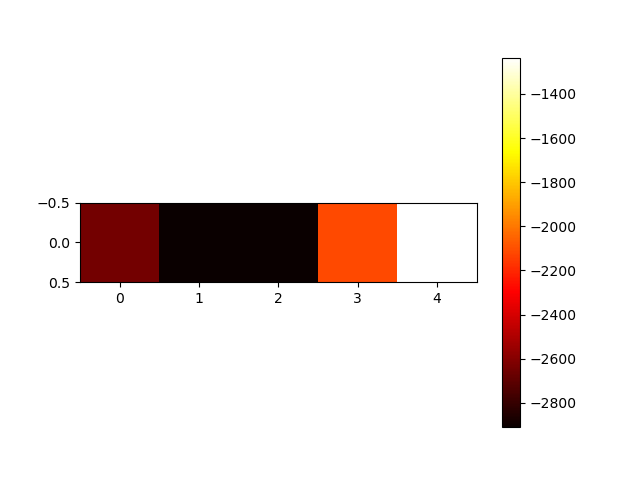
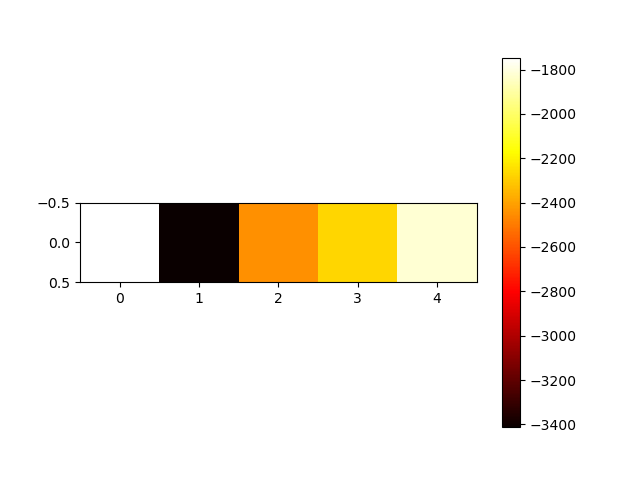
passato parametri a simulazione, non ancora utilizzati

diff --git a/map_elites.py b/map_elites.py
@@ -18,35 +18,32 @@ ALLOW_MUTATION = True
 ALLOW_CROSSOVER = True
 
 class MAP_Elites: 
-    def __init__(self):
+    def __init__(self, problem_parameters):
         # TODO: questi parametri vanno fatti meglio
         self.current_epoch = 0
         self.log_counter = 0
         self.num_dimensions = 1
-        self.num_cells = 5
+        self.cells_in_grid = problem_parameters.cells_in_grid
+        self.total_agents = problem_parameters.total_agents
         # range di valori per EnvironmentData,
         # dicono che non possiamo avere 51 melee se ci sono al max 
         # 50 unità totali per team
         # TODO: integrare questo nella classe EnvironmentData e non qui
-        self.dimension_range = (0, 10)
+        self.cell_dimension = self.total_agents // self.cells_in_grid
+        self.cell_boundaries = [i * self.cell_dimension for i in range(self.cells_in_grid)]
 
         # partiamo con una griglia semplice con una sola dimensione 
         # la griglia contiene coppie (EnvironmentData, fitness)
         # dove enviroment data è il "genotipo" (ex. 5 melee e 5 ranged)
         # TODO: da espandere a più dimensioni (credo almeno due)
-        self.solution_space_grid = np.empty(self.num_cells, dtype=object)
+        self.solution_space_grid = np.empty(self.cells_in_grid, dtype=object)
 
         print("--- Initializing grid...")
-        self.init_grid()
+        self.init_grid(problem_parameters)
 
-    def init_grid(self): 
-        for i in range(self.num_cells):
-            # Per ogni item nella griglia inizializzaimo una soluzjone random
-            low, high = self.dimension_range
-            solution = np.random.uniform(low=low, high=high, size=self.num_dimensions)
-
-            envdata = EnvironmentData(50)
-
+    def init_grid(self, problem_parameters): 
+        for i in range(self.cells_in_grid):
+            envdata = EnvironmentData(problem_parameters, i)
             # e passiamo questa soluzione nel giochino per vedere come performa, 
             # restituisce direttamente il total_reward, quello che dobbiamo massimizzare
             fitness = self.fitness_function(envdata)
@@ -74,10 +71,10 @@ class MAP_Elites:
             self.log("test", as_plot=True)
             self.current_epoch += 1
 
-    def fitness_function(self, solution):
+    def fitness_function(self, env_data):
         # execute environment with current ratio of melee and ranged units
         print("Evaluating enviroment...")
-        env = custom_combined_arms.env(render_mode='human')
+        env = custom_combined_arms.env(env_data=env_data, render_mode='human')
         fitness_score = random_demo(env, render=False, episodes=NUMBER_OF_EPISODES)
 
         return fitness_score

diff --git a/custom_combined_arms.py b/custom_combined_arms.py
@@ -26,6 +26,7 @@ def parallel_env(
     extra_features=False,
     render_mode=None,
     seed=None,
+    env_data=None,
     **reward_args
 ):
     env_reward_args = dict(**default_reward_args)
@@ -38,6 +39,7 @@ def parallel_env(
         extra_features,
         render_mode,
         seed,
+        env_data,
     )
 
 
@@ -45,6 +47,7 @@ def raw_env(
     map_size=default_map_size,
     max_cycles=max_cycles_default,
     minimap_mode=minimap_mode_default,
+    env_data=None,
     extra_features=False,
     render_mode=None,
     seed=None,
@@ -58,6 +61,7 @@ def raw_env(
             extra_features,
             render_mode=render_mode,
             seed=seed,
+            env_data=env_data,
             **reward_args
         )
     )
@@ -70,11 +74,13 @@ def get_config(
     map_size,
     minimap_mode,
     seed,
+    env_data,
     step_reward,
     dead_penalty,
     attack_penalty,
     attack_opponent_reward,
 ):
+    # TODO: usa env_data
     gw = magent2.gridworld
     cfg = gw.Config()
 
@@ -263,6 +269,7 @@ class _parallel_env(magent_parallel_env, EzPickle):
         extra_features,
         render_mode=None,
         seed=None,
+        env_data=None,
     ):
         EzPickle.__init__(
             self,
@@ -275,7 +282,7 @@ class _parallel_env(magent_parallel_env, EzPickle):
             seed,
         )
         assert map_size >= 16, "size of map must be at least 16"
-        env = magent2.GridWorld(get_config(map_size, minimap_mode, seed, **reward_args))
+        env = magent2.GridWorld(get_config(map_size, minimap_mode, seed, env_data, **reward_args))
         reward_vals = np.array([KILL_REWARD] + list(reward_args.values()))
         reward_range = [
             np.minimum(reward_vals, 0).sum(),

diff --git a/environment_data.py b/environment_data.py
@@ -1,8 +1,21 @@
 
+import random
+
 class EnvironmentData:
-    def __init__(self, total_units):
-        self.melee = total_units * 0.5
-        self.ranged = total_units - self.melee
+    def __init__(self, problem_parameters, cell_index):
+        self.cell_index = cell_index
+
+        self.num_dimensions = 1
+        self.cells_in_grid = problem_parameters.cells_in_grid
+        self.total_agents = problem_parameters.total_agents
+        
+        self.cell_dimension = self.total_agents // self.cells_in_grid
+        self.cell_boundary_low = self.cell_index * self.cell_dimension
+        self.cell_boundary_high = (self.cell_index+1) * self.cell_dimension - 1
+        self.current_value = random.randint(self.cell_boundary_low, self.cell_boundary_high)
+
+        self.number_of_melee = self.current_value
+        self.number_of_ranged = self.total_agents - self.current_value
 
     def mutate(self): 
         pass

diff --git a/main.py b/main.py
@@ -1,5 +1,6 @@
 
 from map_elites import MAP_Elites
+from problem_params import ProblemParameters
 import os
 
 NO_DISPLAY = True
@@ -8,7 +9,9 @@ def main():
     if NO_DISPLAY: 
         os.environ["SDL_VIDEODRIVER"] = "dummy"
 
-    algorithm = MAP_Elites()
+    params = ProblemParameters()
+
+    algorithm = MAP_Elites(params)
     algorithm.run()
 
     print("Best solution: ", algorithm.get_best_solutions())

diff --git a/problem_params.py b/problem_params.py
@@ -1,0 +1,7 @@
+
+
+class ProblemParameters: 
+    def __init__(self) -> None:
+        self.total_agents = 100
+        self.agent_classes = 2
+        self.cells_in_grid = 5
